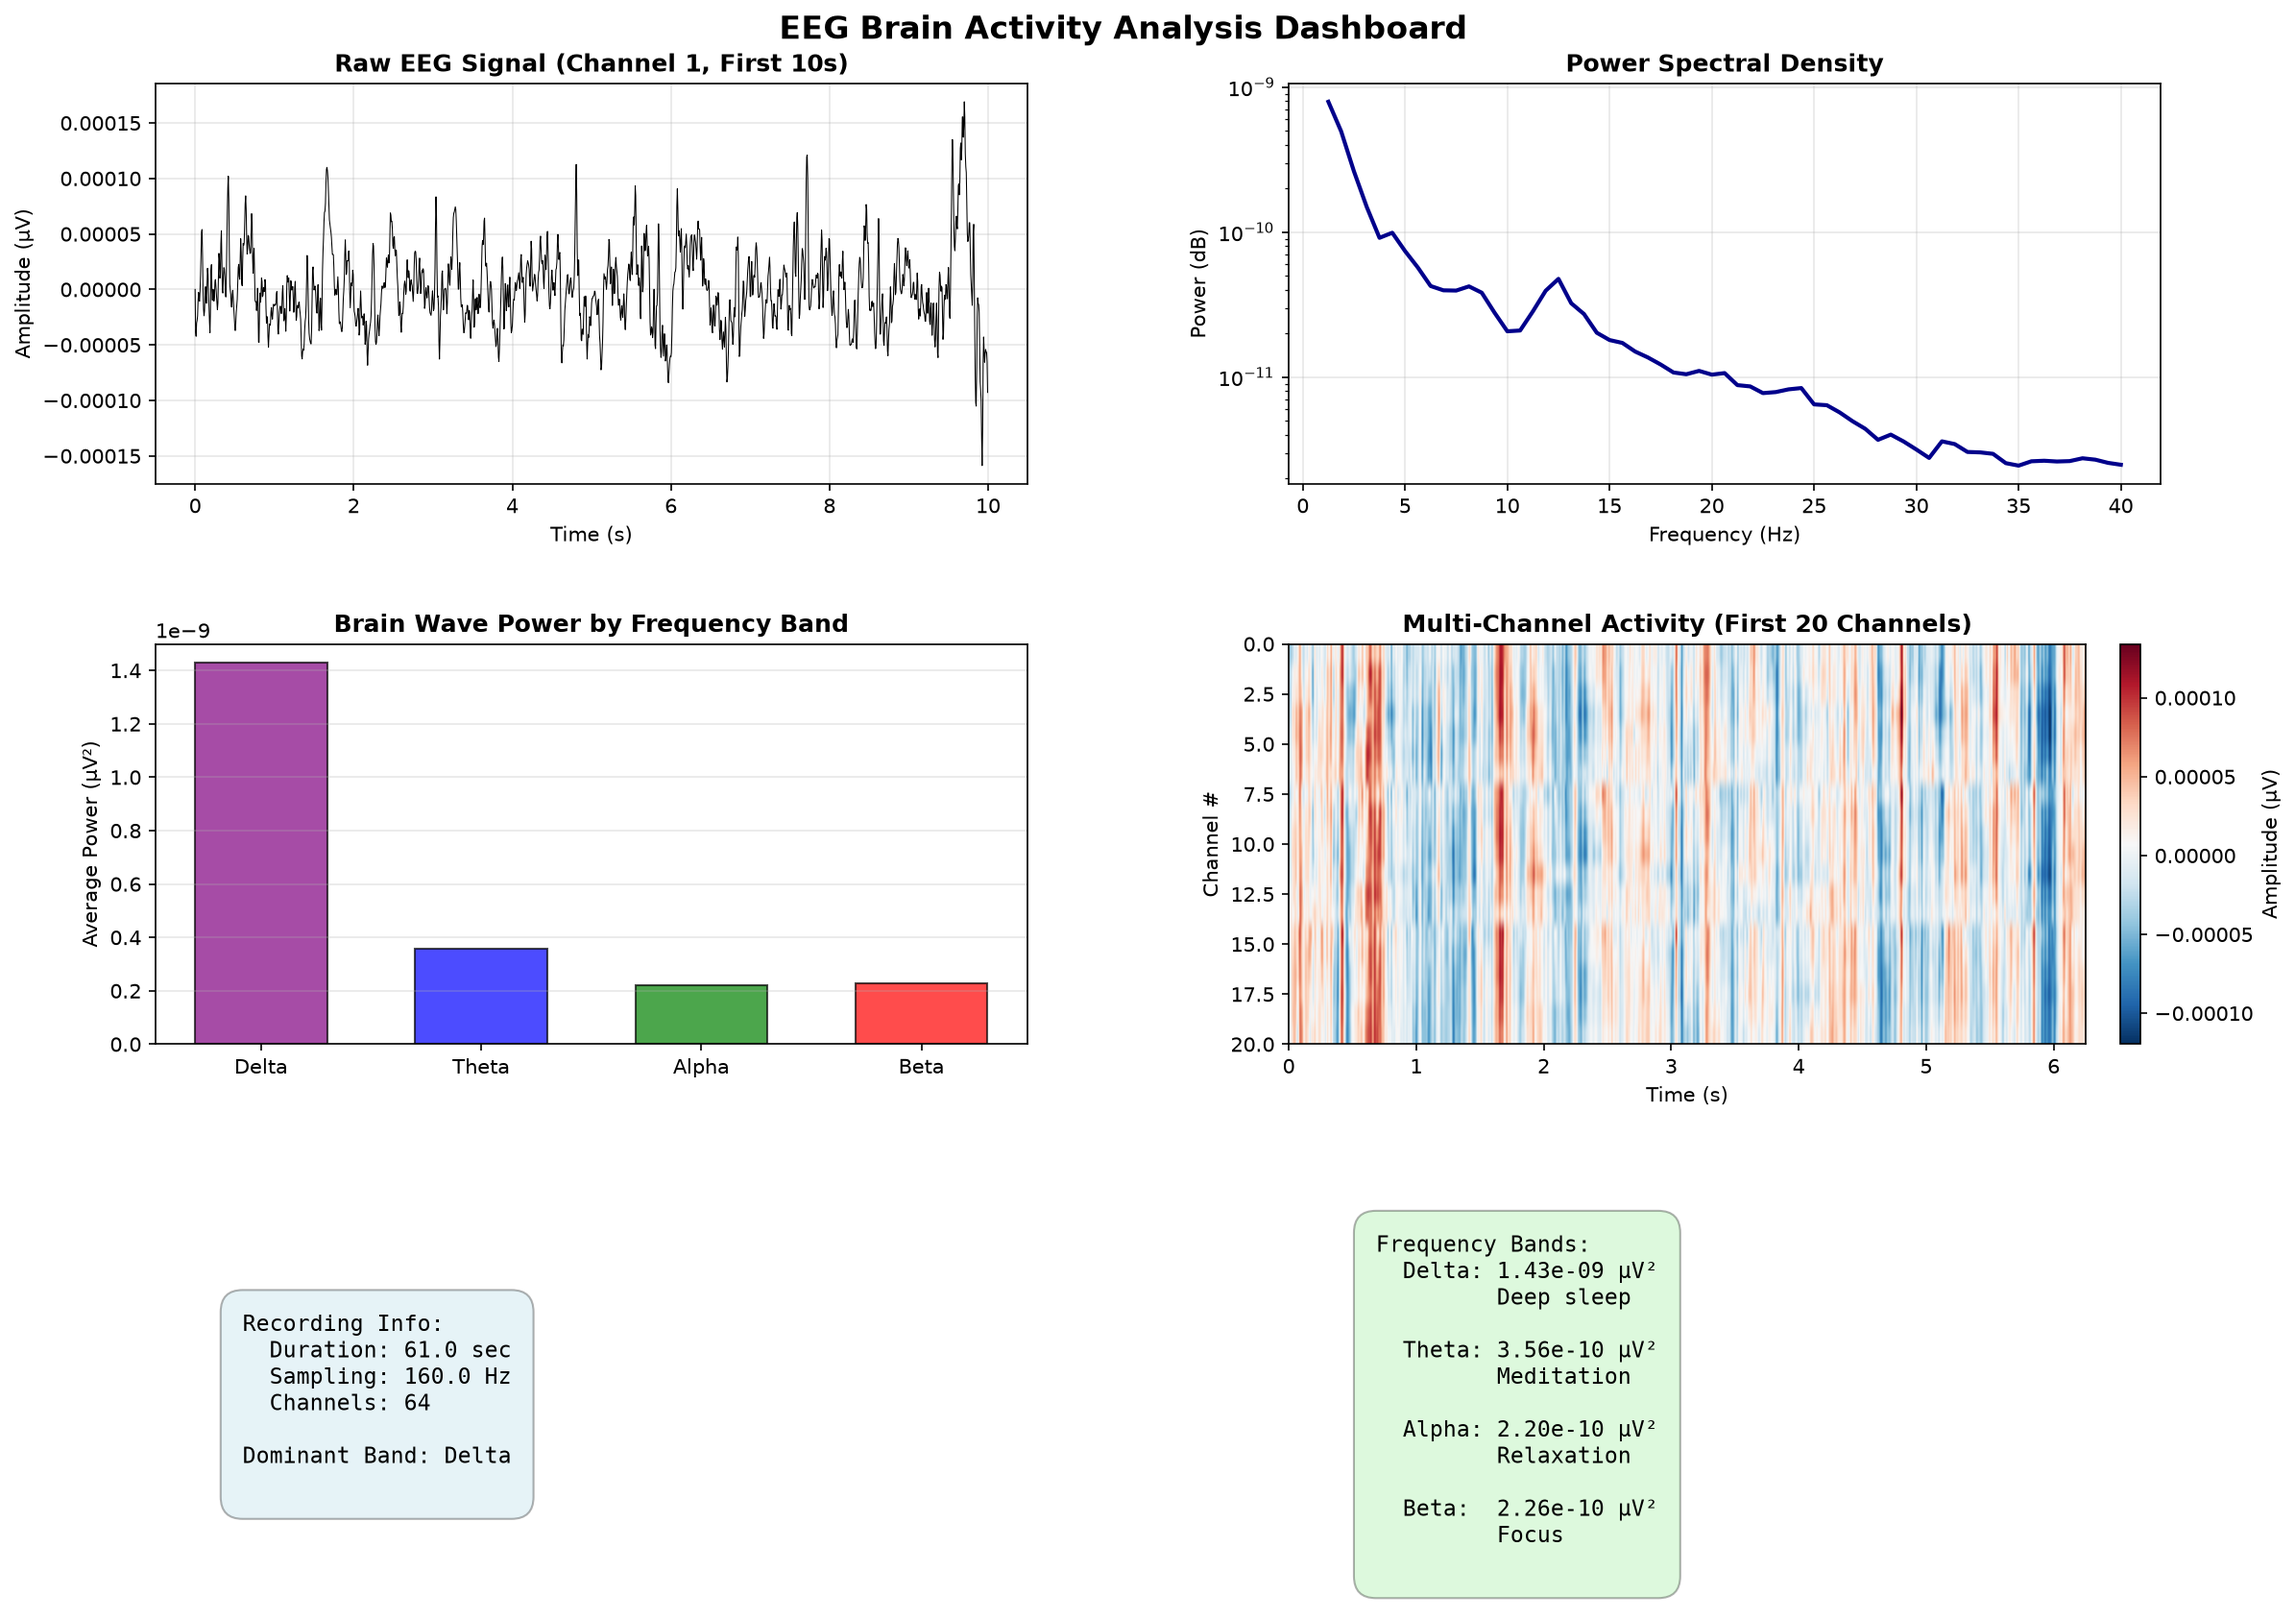
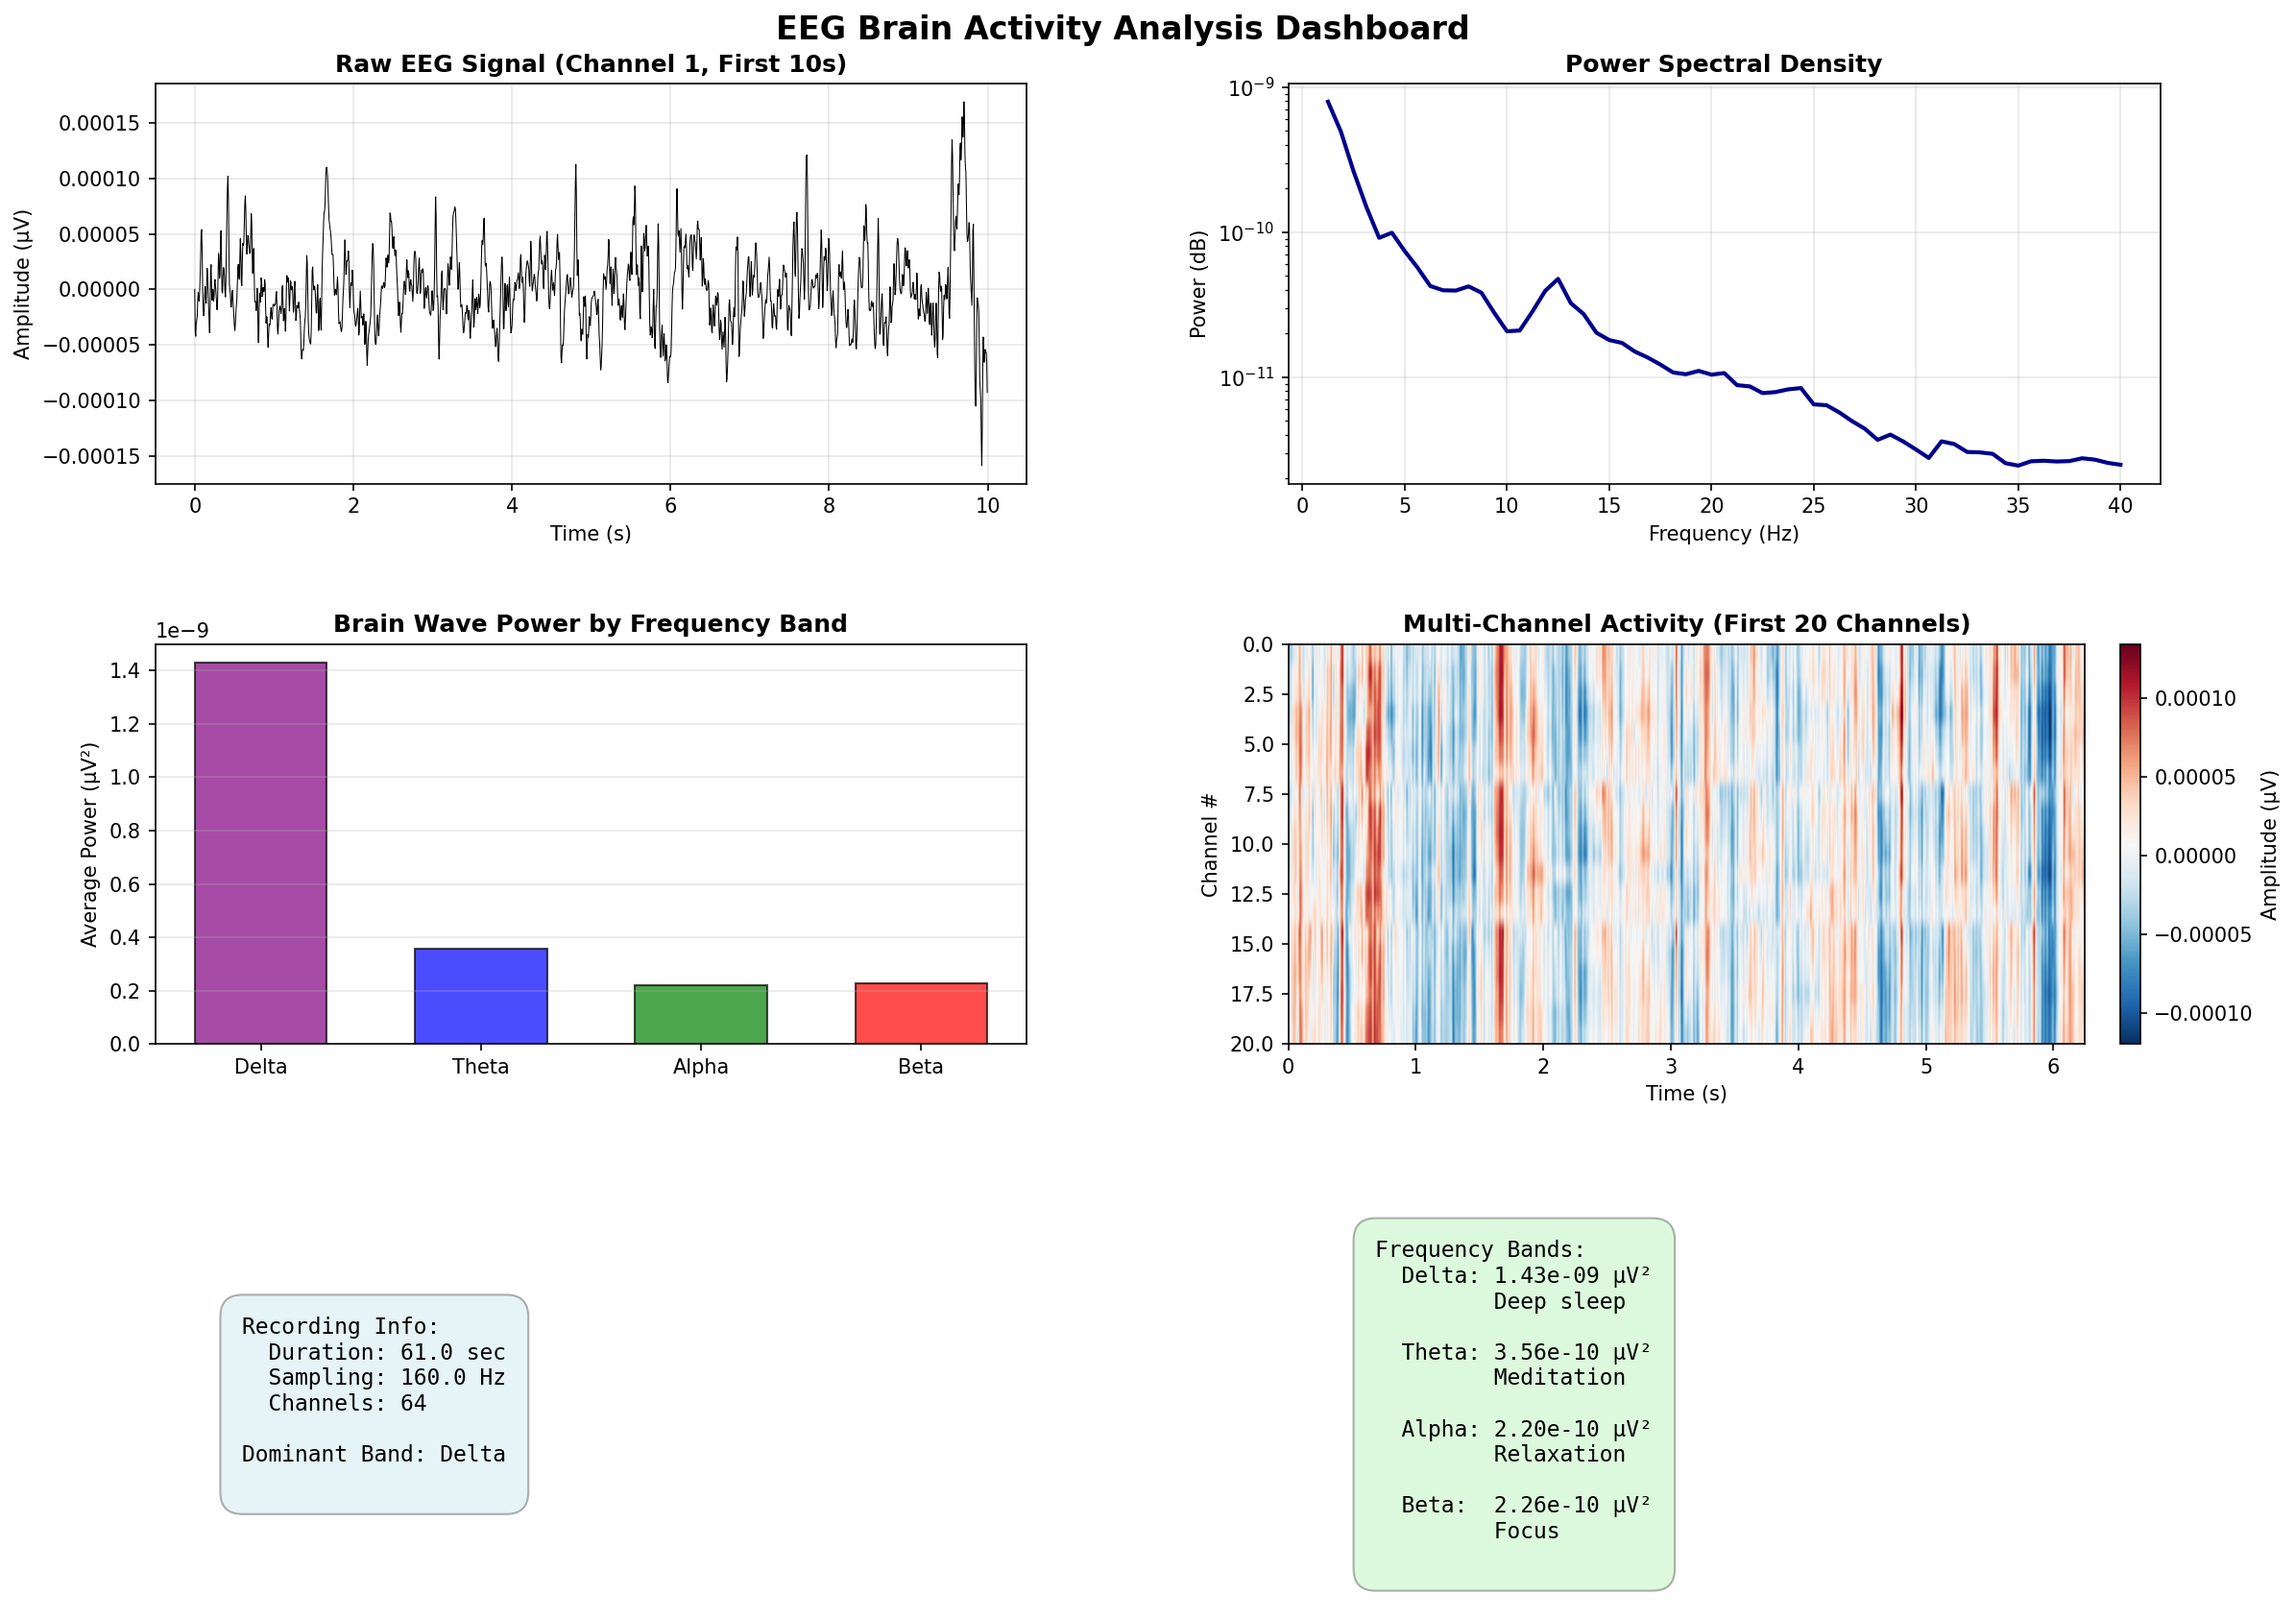
finished up readme + requirements

diff --git a/README.md b/README.md
@@ -1,1 +1,70 @@
 # eeg-pipeline
+
+A python pipeline for processing and visualizing electroencephalography (EEG) recordings. The aim of this project is to explore brain activity and use signal preprocessing, frequency-band analysis, and generate visualizations of EEG signals. 
+
+## Features
+- **EEG Data Acquisition:** Downloads real EEG recordings from Physionet EEG Motor Movement/imagery dataset using MNE-Python
+- **Signal Preprocessing:** Applies bandpass filtering to prepare EEG signals for analysis
+- **Frequency Analysis:** Extracts and analyzez delta, theta, alpha, and beta frequency bands
+- **Data Visualization:** Generates power spectral density plots and multi-channel heatmaps to model signal characteristics across 64 EEG channels
+
+## Tool & Technologies
+- Python
+- MNE-Python
+- NumPy
+- Matplotlib
+
+## Data
+This project uses the [EEG Motor Movement/Imagery](https://physionet.org/content/eegmmidb/1.0.0/) Dataset hosted by PhysioNet.
+
+This data contains EEG recordings collected during motor movement and motor imagery experiments.
+The download script retrieves subject 1, run 1 for analysis.
+
+## How to run
+
+- Python 3.10 or newer
+- Git
+- Strong internet connection to download the dataset
+
+1. Clone the repository
+```
+git clone https://github.com/altikritimatwit/eeg-pipeline.git
+cd eeg-pipeline
+```
+
+2. Create a virtual environment
+```
+python -m venv .venv
+```
+
+On Windows:
+```
+.\.venv\Scripts\Activate.ps1
+```
+
+On macOS or Linux:
+```
+source .venv/bin/activate
+```
+
+3. Install dependencies 
+```
+python -m pip install --upgrade pip
+python -m pip install -r requirements.txt
+```
+
+4. Download EEG data
+```
+python download_data.py
+```
+
+5. Run the analysis
+```
+python dashboard.py # for summary 
+python ingest.py # for data information
+python features.py # for frequency bands plot + powers
+python preprocessing.py # for pre/post processing comparison
+```
+
+## Example Visualizations
+![dashboard visual](src\output\eeg_dashboard.png)
